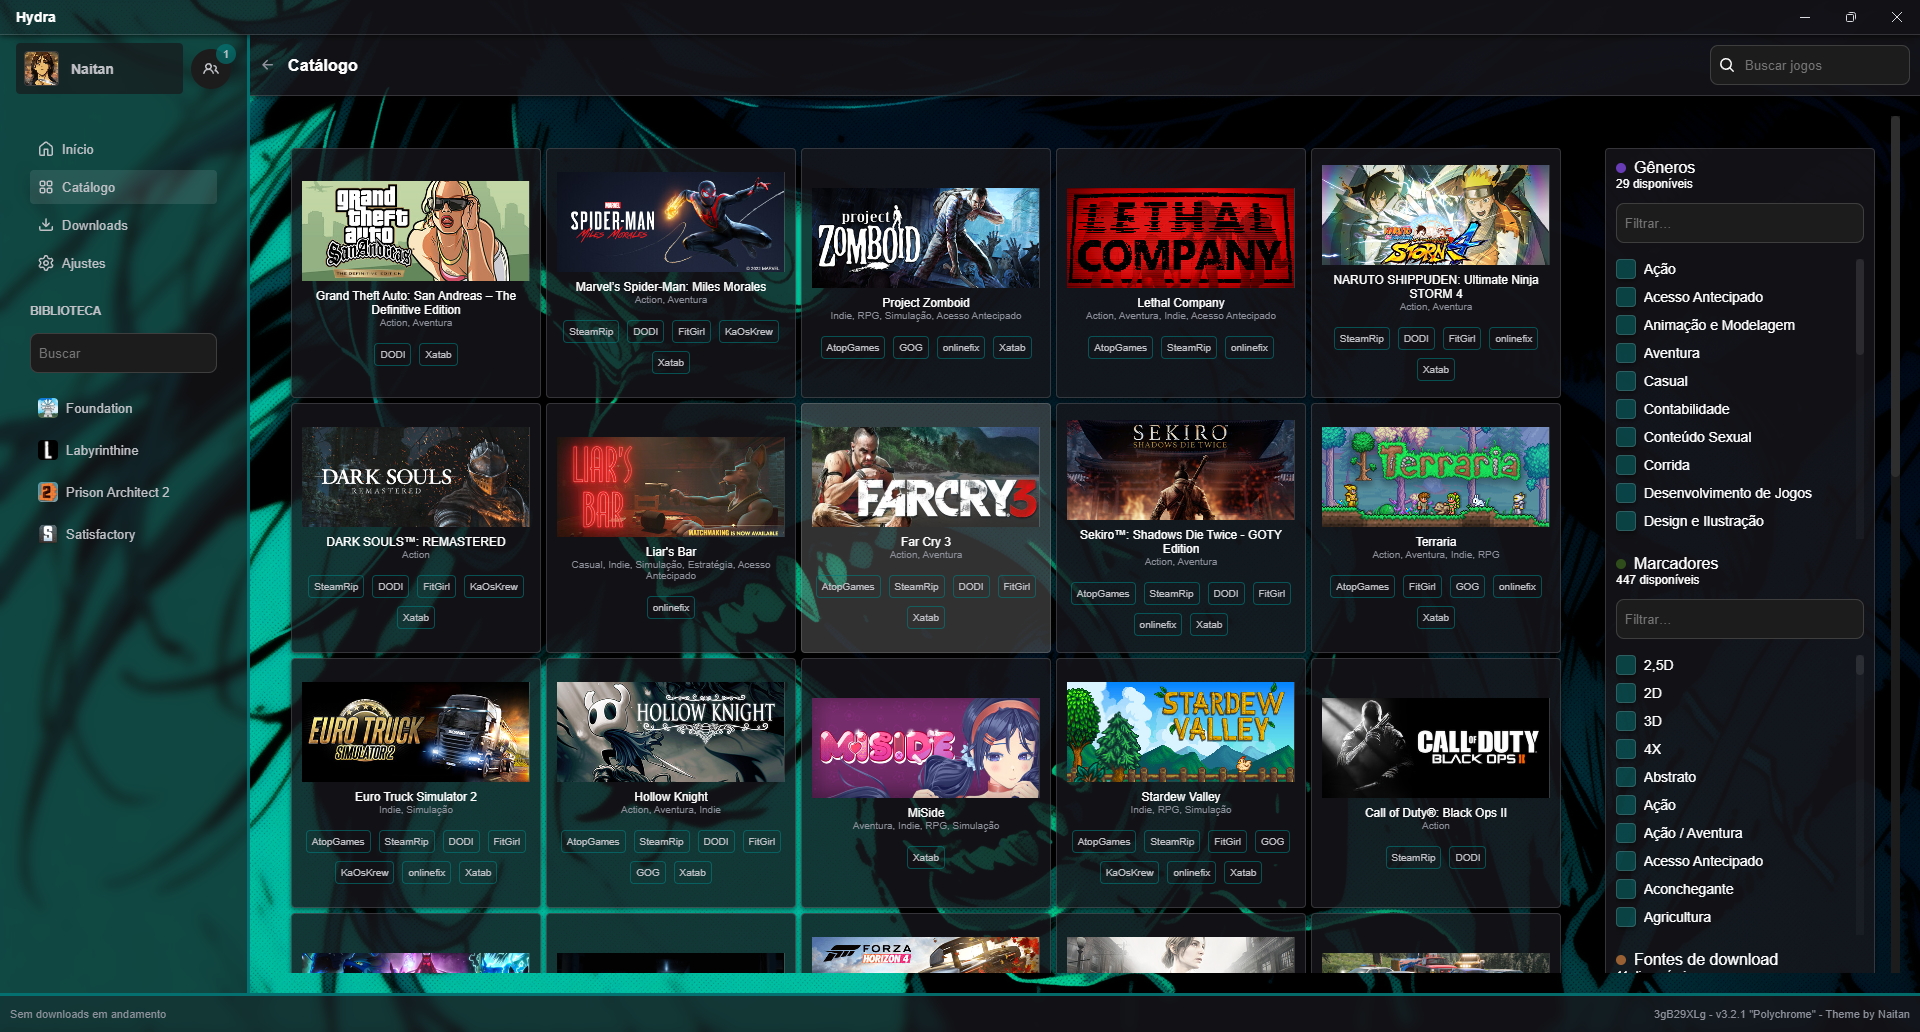
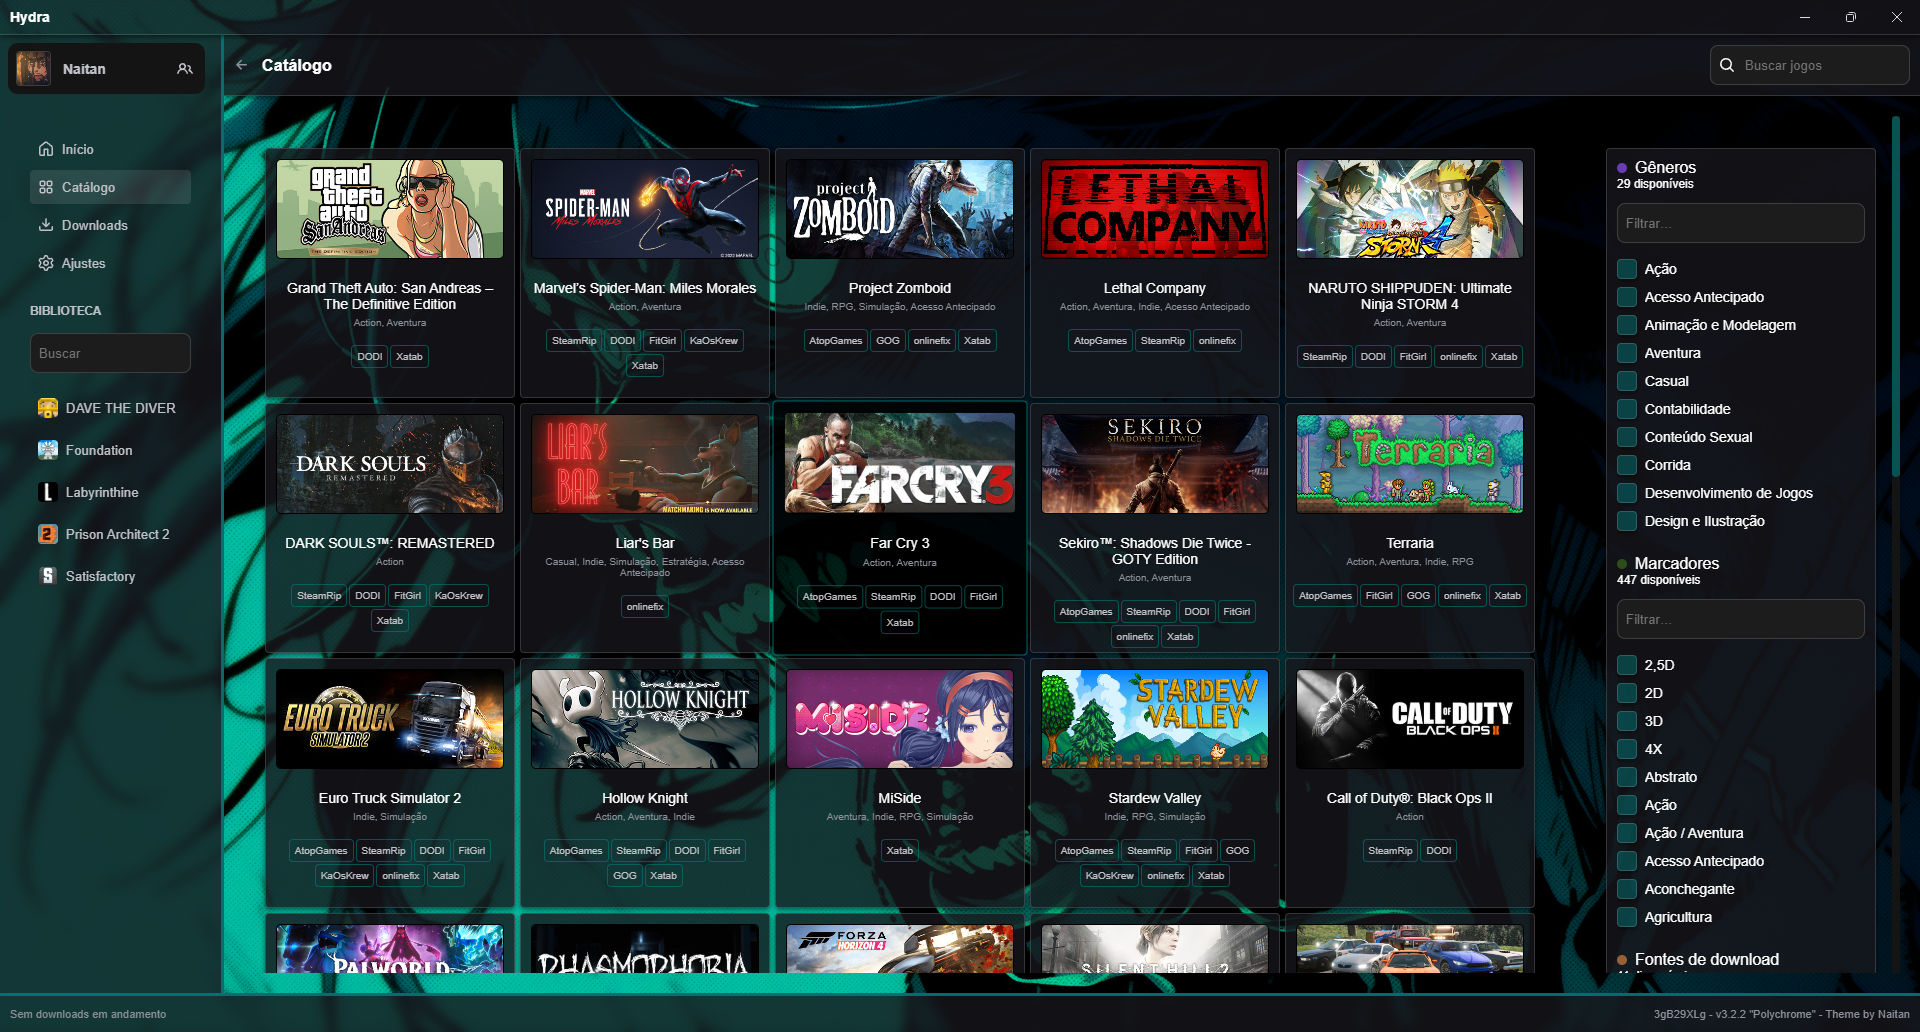
Add files via upload (#197)

diff --git a/themes/EREN GREEN 2.0-pyWxkeQq/theme.css b/themes/EREN GREEN 2.0-pyWxkeQq/theme.css
@@ -1,28 +1,32 @@
+:root {
+    --color-background-base: rgba(23, 23, 27, 0.8);
+    --color-background-dark: rgb(20, 20, 20);
+    --color-background-button: rgba(0, 128, 128, 0.562);
+    --color-background-checkbox: rgba(0, 128, 128, 0.432);
+    --color-background-scrollbar-thumb: rgba(0, 128, 128, 0.568); 
+    --color-border: rgba(0, 128, 128, 0.8); 
+    --color-text: #ffffff; 
+    --color-shadow: rgba(0, 0, 0, 0.5); 
+}
 body {
     background: url('https://images7.alphacoders.com/133/1339712.png') no-repeat fixed;
     background-size: cover;
     font-family: 'Arial', sans-serif;
-    color: #ffffff;
+    color: var(--color-text);
     margin: 0;
     padding: 0;
 }
 
-.header {
-    background-color: rgba(23, 23, 27, 0.8);
-    color: #ffffff;
-    box-shadow: 0px 2px 5px rgba(0, 0, 0, 0.5);
+.achievements__list, .header, .title-bar, .toast, .theme-card, .game-item, .catalogue__filters-container, .modal, .repacks-modal__repack-button, .user-stats__box, .recent-games__box, .settings-download-sources__item, .download-group__item {
+    background-color: var(--color-background-base);
+    color: var(--color-text);
+    box-shadow: 0px 2px 5px var(--color-shadow);
     padding: 10px;
 }
 
-.title-bar {
-    background-color: rgba(23, 23, 27, 0.8);
-    color: #ffffff;
-    box-shadow: 0px 2px 5px rgba(0, 0, 0, 0.5);
-}
-
 .sidebar {
-    background-color: rgba(23, 23, 27, 0.7);
-    border-right: 3px solid rgba(0, 128, 128, 0.8);
+    background-color: var(--color-background-base); 
+    border-right: 3px solid var(--color-border);
     backdrop-filter: blur(5px);
     padding: 0px;
     width: 250px;
@@ -37,68 +41,53 @@ body {
 
 .container__content {
     background: none;
-    color: #ffffff;
+    color: var(--color-text);
     padding: 20px;
 }
 
 .bottom-panel {
-    background-color: rgba(23, 23, 27, 0.8);
-    border-top: 3px solid rgba(0, 128, 128, 0.8);
+    background-color: var(--color-background-base);
+    border-top: 3px solid var(--color-border);
     backdrop-filter: blur(5px);
     padding: 10px;
     text-align: center;
 }
 
-.toast {
-    background-color: rgba(23, 23, 27, 0.8);
-    color: #ffffff;
-    box-shadow: 0px 2px 5px rgba(0, 0, 0, 0.5);
-}
-
-.button {
-    background-color: rgba(0, 128, 128, 0.562);
-    color: white;
+.button, .select-field__option {
+    background-color: var(--color-background-base);
+    color: var(--color-text);
     border-radius: 5px;
     transition: 0.3s;
-    box-shadow: 0px 2px 5px rgba(0, 0, 0, 0.3);
-    border: 1px solid rgba(0, 128, 128, 0.5);
+    box-shadow: 0px 2px 5px var(--color-shadow);
+    border: 1px solid var(--color-border); 
     cursor: pointer;
 }
 
-.button:hover {
-    background-color: rgb(0, 104, 104);
+.button:hover, .select-field__option:hover {
+    background-color: var(--color-border); 
     opacity: 1;
-}
-
-.select-field__option {
-    background-color: rgba(0, 128, 128, 0.699);
-    color: white;
-    border-radius: 5px;
-    transition: 0.3s;
-    box-shadow: 0px 2px 5px rgba(0, 0, 0, 0.3);
-    border: 1px solid rgba(0, 128, 128, 0.5);
-    cursor: pointer;
 }
 
 .select-field__option:hover {
-    background-color: rgb(0, 104, 104);
-    box-shadow: 0px 0px 10px rgb(0, 128, 128);
-    opacity: 1;
+    box-shadow: 0px 0px 10px var(--color-border);
 }
 
 .settings__content {
-    background-color: rgba(23, 23, 27, 0.678);
+    background-color: var(--color-background-base);
+}
+
+.sidebar-profile__button, .sidebar-profile__friends-button {
+    background-color: var(--color-background-dark);
+    height: 100%;
+    margin-left: -8px;
 }
 
 .sidebar-profile__button {
-    background-color: rgba(23, 23, 27, 0.678);
+    border-radius: 10px 0px 0px 10px;
 }
 
-.theme-card, .game-item, .catalogue__filters-container, .modal, .repacks-modal__repack-button, .user-stats__box, .recent-games__box, .settings-download-sources__item, .download-group__item {
-    background-color: rgba(23, 23, 27, 0.8);
-    color: #ffffff;
-    box-shadow: 0px 2px 5px rgba(0, 0, 0, 0.5);
-    padding: 10px;
+.sidebar-profile__friends-button {
+    border-radius: 0px 10px 10px 0px;
 }
 
 .game-item {
@@ -106,18 +95,29 @@ body {
     height: 250px;
     margin-bottom: 5px;
     margin-left: 5px;
-    display: block;
+    display: flex;
+    flex-direction: column;
+    align-items: center;
+    padding-top: 10px;
     float: left;
+    transition: transform 0.3s ease-in-out;
 }
 
-.game-item:hover {
-    background-color: rgba(85, 85, 85, 0.582);
+.game-item:hover, .achievements__list li:hover {
+    background-color: rgba(0, 0, 0, 0.849);
+    transform: scale(1.02);
+    border: 1px solid var(--color-border);
 }
 
-.catalogue__games-container, .catalogue__pagination-container {
-    display: block;
+.catalogue__games-container {
+    display: inline-block;
     width: 100%;
-    float: left;
+}
+
+.catalogue__pagination-container {
+    clear: both;
+    width: 450px;
+    margin: 10px auto;
 }
 
 .game-item__details {
@@ -129,35 +129,38 @@ body {
 
 .game-item__details span {
     display: block;
-    font-size: 12px;
+    font-size: 14px;
 }
 
 .game-item img {
     width: 100%;
     height: 100px;
+    border: 1px solid rgb(0, 0, 0);
+    border-radius: 5px;
 }
 
 .game-item__details .game-item__genres {
     text-align: center;
     font-size: 10px;
+    padding: 5px;
 }
 
 .checkbox-field__checkbox {
-    background-color: rgba(0, 128, 128, 0.432);
-    color: #ffffff;
-    box-shadow: 0px 2px 5px rgba(0, 0, 0, 0.5);
+    background-color: var(--color-background-checkbox);
+    color: var(--color-text);
+    box-shadow: 0px 2px 5px var(--color-shadow);
 }
 
 .repacks-modal__repack-button:hover {
-    background-color: rgba(0, 104, 104, 0.8);
+    background-color: var(--color-border);
 }
 
-.badge {
-    border-color: rgba(0, 128, 128, 0.568);
+.badge, .sidebar-profile__friends-button-badge {
+    border-color: var(--color-background-scrollbar-thumb);
 }
 
 .sidebar-profile__friends-button-badge {
-    background-color: rgba(0, 128, 128, 0.568);
+    background-color: var(--color-background-scrollbar-thumb);
 }
 
 .game-item__repackers {
@@ -167,6 +170,7 @@ body {
 
 .game-item__repackers .badge {
     padding: 4px;
+    margin: -3px;
     font-size: 8px;
 }
 
@@ -182,6 +186,106 @@ body {
     padding: 0px;
 }
 
+.button--primary {
+    background-color: var(--color-background-scrollbar-thumb);
+    border: 1px solid var(--color-border);
+}
+
+::-webkit-scrollbar {
+    width: 8px;
+}
+
+::-webkit-scrollbar-track {
+    background-color: var(--color-background-dark);
+}
+
+::-webkit-scrollbar-thumb {
+    background: var(--color-background-scrollbar-thumb);
+}
+
+::-webkit-scrollbar-thumb:hover {
+    background: var(--color-border);
+}
+
+.download-group__downloads {
+    display: flex;
+    flex-wrap: wrap;
+    flex-direction: row;
+    padding: 0;
+    list-style-type: none;
+}
+
+.download-group__downloads li {
+    flex: 0 0 500px;
+    margin-right: 20px;
+    border: 1px solid #ccc;
+    padding: 10px;
+    text-align: center;
+}
+
+.download-group__details {
+    text-align: left;
+}
+
+.hero-panel__progress-bar, .achievements-content__user-summary__container__stats__progress-bar {
+    -webkit-appearance: none;
+    appearance: none;
+}
+
+.hero-panel__progress-bar, .achievements-content__user-summary__container__stats__progress-bar::-webkit-progress-bar {
+    background-color: var(--color-background-dark);
+}
+
+.hero-panel__progress-bar, .achievements-content__user-summary__container__stats__progress-bar::-webkit-progress-value {
+    background-color: var(--color-background-scrollbar-thumb);
+}
+
+.settings-appearance__themes {
+    display: block;
+    width: 100%;
+}
+
+.theme-card {
+    width: 250px;
+    height: 150px;
+    margin-bottom: 5px;
+    margin-left: 5px;
+    align-items: center;
+    padding-top: 10px;
+    float: left;
+}
+
+.theme-card--active {
+    border: 1px solid var(--color-border);
+}
+
+
+.achievements__list {
+    display: grid;
+    width: 100%;
+    grid-template-columns: repeat(3, 1fr);
+    
+}
+.achievements__list li{
+    background-color: var(--color-background-dark);
+}
+
+.game-details__description-content, .content-sidebar{
+    background-color: var(--color-background-base);
+
+}
+.game-details__description-container{
+    background: none;
+}
+
+/* Titulo */
+.description-header, .achievement-panel{
+    background-color: var(--color-background-dark);
+    
+    border-bottom: 10px solid var(--color-border);
+    border-top: 1px solid var(--color-border);
+}
+/* Titulo */
 @media (min-width: 1500px) {
     .game-item {
         width: 250px;
@@ -197,4 +301,28 @@ body {
     .settings__container {
         padding: 25px;
     }
+    .achievements__list {
+    display: grid;
+    width: 100%;
+    grid-template-columns: repeat(4, 1fr);
+    
+}
+}
+
+@media (max-width: 1250px) {
+    .download-group__downloads {
+        display: block;
+    }
+    .download-group__downloads li {
+        margin-bottom: 5px;
+    }
+    .catalogue__filters-container {
+        display: none;
+    }
+    .achievements__list {
+    display: grid;
+    width: 100%;
+    grid-template-columns: repeat(2, 1fr);
+    
+}
 }

diff --git a/themes/EREN ORANGE 2.0-pyWxkeQq/theme.css b/themes/EREN ORANGE 2.0-pyWxkeQq/theme.css
@@ -1,15 +1,15 @@
 :root {
     --color-background-base: rgba(23, 23, 27, 0.8);
     --color-background-dark: rgb(20, 20, 20);
-    --color-background-button: rgba(82, 24, 24, 0.7);
-    --color-background-checkbox: rgba(88, 0, 0, 0.43);
-    --color-background-scrollbar-thumb: rgba(151, 0, 0, 0.57);
-    --color-border: rgba(139, 0, 0, 0.8);
-    --color-text: #ffffff;
-    --color-shadow: rgba(0, 0, 0, 0.5);
+    --color-background-button: rgba(128, 58, 0, 0.562);
+    --color-background-checkbox: rgba(128, 58, 0, 0.432);
+    --color-background-scrollbar-thumb: rgba(128, 58, 0, 0.568); 
+    --color-border: rgba(128, 58, 0, 0.8); 
+    --color-text: #ffffff; 
+    --color-shadow: rgba(0, 0, 0, 0.5); 
 }
 body {
-    background: url('https://images6.alphacoders.com/112/1126962.jpg') no-repeat fixed;
+    background: url('https://images4.alphacoders.com/111/1117424.png') no-repeat fixed;
     background-size: cover;
     font-family: 'Arial', sans-serif;
     color: var(--color-text);
